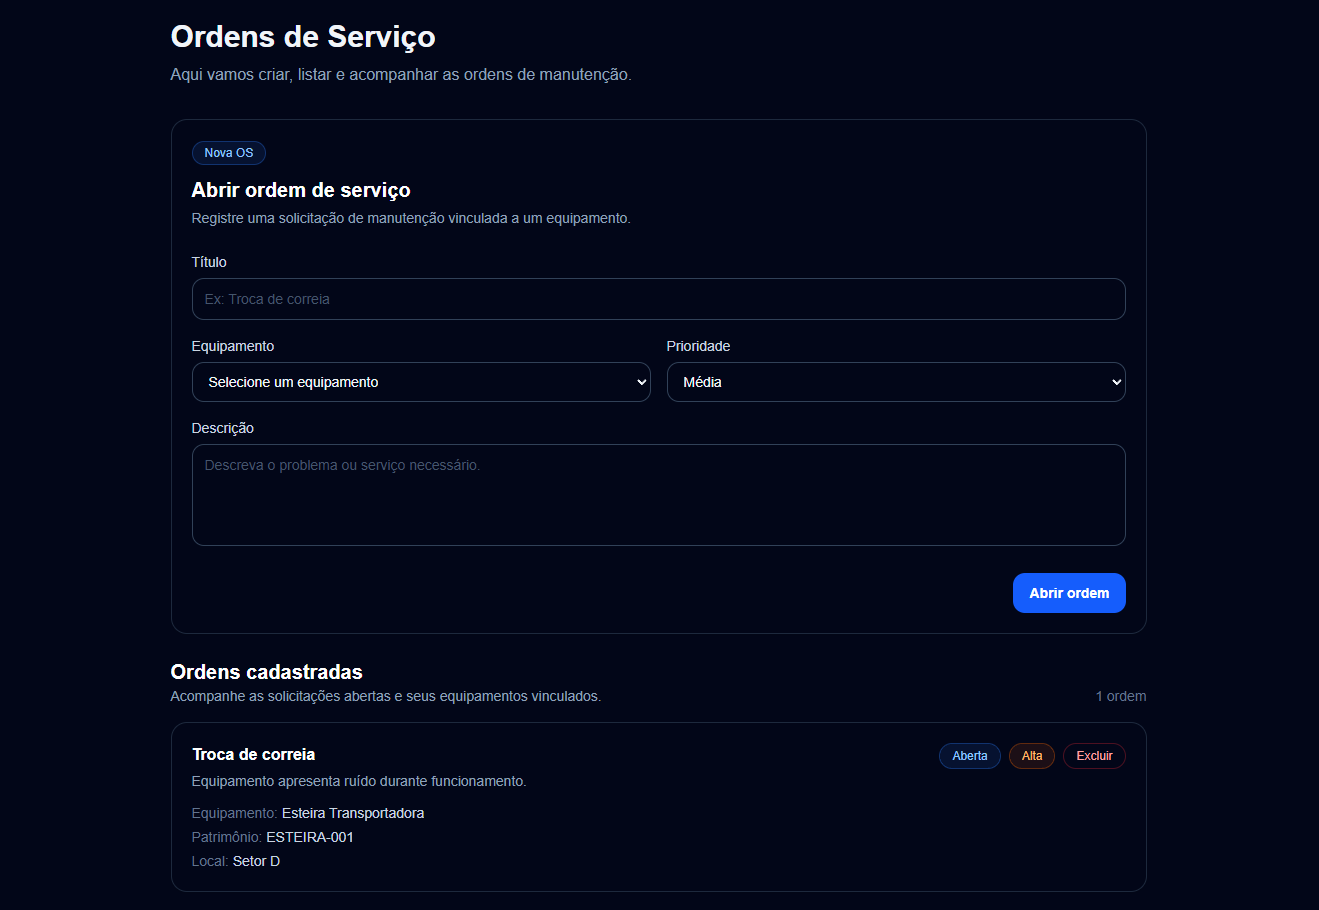
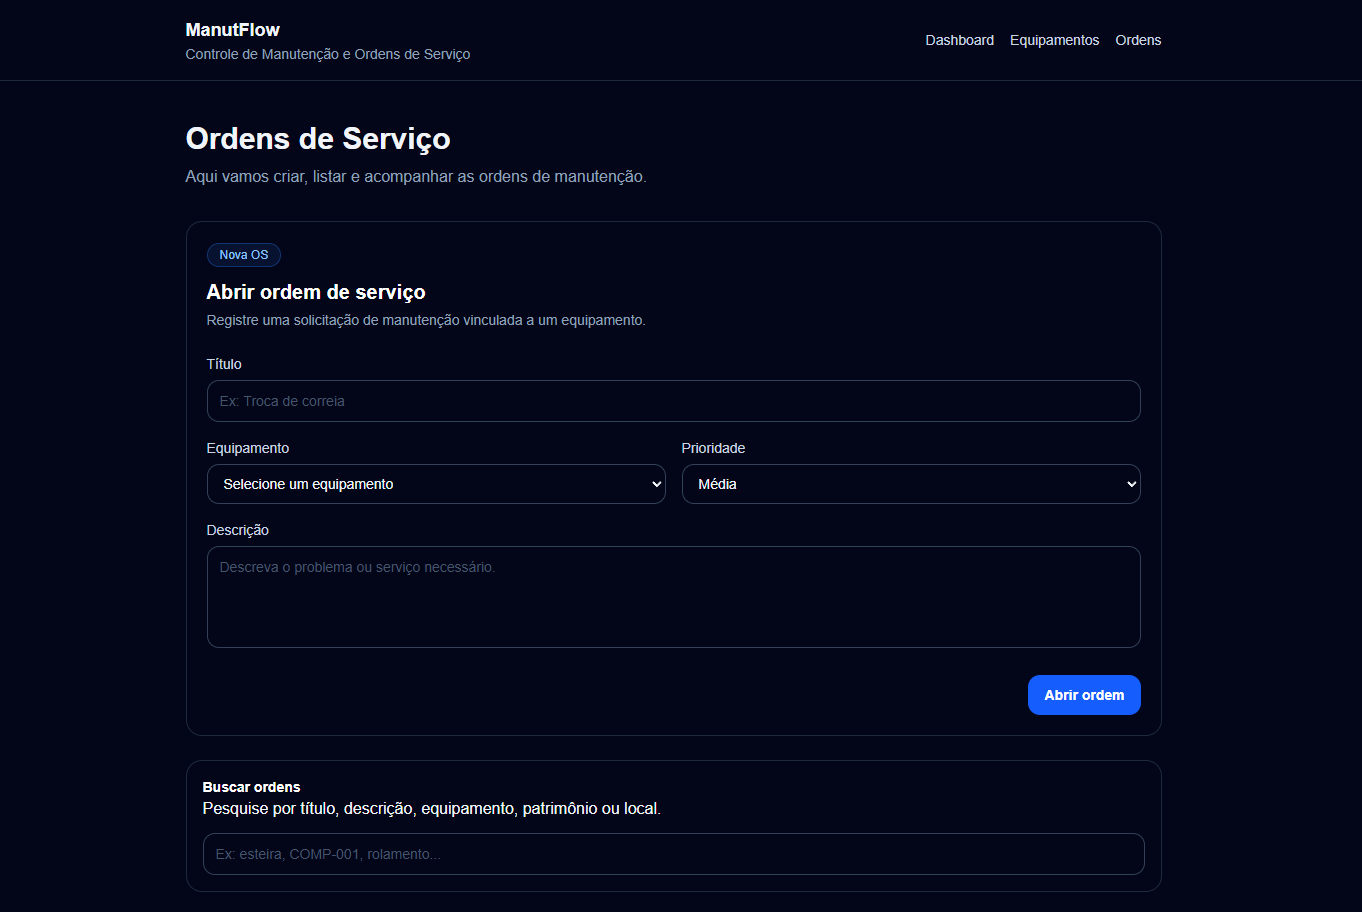
docs: atualiza README com progresso recente

diff --git a/README.md b/README.md
@@ -6,6 +6,12 @@ O projeto está sendo construído do zero como parte de um desafio prático de a
 
 ## Preview
 
+### Dashboard
+
+<p align="center">
+  <img src="./docs/preview-dashboard.png" alt="Preview do dashboard do ManutFlow" width="900" />
+</p>
+
 ### Equipamentos
 
 <p align="center">
@@ -14,8 +20,14 @@ O projeto está sendo construído do zero como parte de um desafio prático de a
 
 ### Ordens de Serviço
 
+### Ordens de Serviço
+
 <p align="center">
-  <img src="./docs/preview-ordens.png" alt="Preview da tela de ordens de serviço do ManutFlow" width="900" />
+  <img src="./docs/preview-ordens.png" alt="Preview da tela de ordens de serviço do ManutFlow com formulário, busca e filtros" width="900" />
+</p>
+
+<p align="center">
+  <img src="./docs/preview-ordens2.png" alt="Preview da listagem de ordens de serviço do ManutFlow com status, prioridades e equipamentos vinculados" width="900" />
 </p>
 
 ## Objetivo do projeto
@@ -46,6 +58,17 @@ A ideia do projeto é aprender desenvolvimento full stack construindo uma aplica
 * Criação do cabeçalho da aplicação
 * Criação de navegação entre páginas
 * Criação das rotas de Dashboard, Equipamentos e Ordens
+* Organização de funcionalidades por domínio em `features`
+
+### Dashboard
+
+* Criação de dashboard inicial
+* Criação da rota `/api/dashboard-summary`
+* Busca de indicadores reais no Supabase
+* Exibição do total de equipamentos cadastrados
+* Exibição do total de ordens de serviço
+* Exibição de ordens abertas, em andamento e fechadas
+* Substituição de valores fixos por dados reais da API
 
 ### API
 
@@ -57,10 +80,11 @@ A ideia do projeto é aprender desenvolvimento full stack construindo uma aplica
 * Implementação do método `GET` para listar ordens de serviço
 * Implementação do método `POST` para cadastrar ordens de serviço
 * Criação da rota `/api/service-orders/[id]`
+* Implementação do método `PATCH` para atualizar o status de uma ordem de serviço
 * Implementação do método `DELETE` para excluir ordens de serviço
 * Validação dos dados no servidor antes de salvar no banco
 * Tratamento de erro para código de patrimônio duplicado
-* Tratamento de erro para campos obrigatórios e prioridades inválidas
+* Tratamento de erro para campos obrigatórios, prioridades inválidas e status inválidos
 
 ### Equipamentos
 
@@ -70,6 +94,9 @@ A ideia do projeto é aprender desenvolvimento full stack construindo uma aplica
 * Exibição de mensagens de sucesso e erro
 * Atualização automática da lista após cadastrar um equipamento
 * Tradução dos status técnicos do banco para textos amigáveis na interface
+* Exibição de equipamentos em cards responsivos
+* Exibição de status dos equipamentos com badges visuais
+* Padronização visual da tela de equipamentos com tema escuro
 
 ### Ordens de Serviço
 
@@ -81,9 +108,13 @@ A ideia do projeto é aprender desenvolvimento full stack construindo uma aplica
 * Listagem de ordens cadastradas
 * Exibição do equipamento vinculado à ordem
 * Exibição de status e prioridade com textos amigáveis
+* Alteração de status da ordem de serviço pela interface
 * Exclusão de ordens de serviço
-* Atualização automática da lista após cadastrar ou excluir uma ordem
-* Estilização da tela de ordens com tema escuro e cards organizados
+* Filtro de ordens por status
+* Busca textual por título, descrição, equipamento, patrimônio e local
+* Melhoria do estado vazio para busca e filtros sem resultado
+* Atualização automática da lista após cadastrar, excluir ou alterar uma ordem
+* Estilização da tela de ordens com tema escuro, cards, filtros e busca
 
 ### Segurança e banco de dados
 
@@ -91,7 +122,7 @@ A ideia do projeto é aprender desenvolvimento full stack construindo uma aplica
 * Uso de PostgreSQL como banco de dados
 * Configuração de Row Level Security no Supabase
 * Criação de policies iniciais para leitura e cadastro de equipamentos
-* Criação de policies iniciais para leitura, cadastro e exclusão de ordens de serviço
+* Criação de policies iniciais para leitura, cadastro, atualização e exclusão de ordens de serviço
 * Uso de relacionamento entre tabelas com chave estrangeira
 
 > As permissões atuais são temporárias para desenvolvimento. Futuramente, elas serão ajustadas com autenticação e controle de acesso por usuário.
@@ -102,6 +133,7 @@ A ideia do projeto é aprender desenvolvimento full stack construindo uma aplica
 src/
 ├─ app/
 │  ├─ api/
+│  │  ├─ dashboard-summary/
 │  │  ├─ equipments/
 │  │  ├─ health/
 │  │  └─ service-orders/
@@ -126,7 +158,7 @@ src/
 
 ### `/`
 
-Página inicial do sistema, funcionando como dashboard inicial.
+Página inicial do sistema, funcionando como dashboard com indicadores reais de equipamentos e ordens de serviço.
 
 ### `/equipamentos`
 
@@ -134,15 +166,41 @@ Página responsável por cadastrar e listar os equipamentos da empresa.
 
 ### `/ordens`
 
-Página responsável por criar, listar e excluir ordens de serviço vinculadas aos equipamentos cadastrados.
+Página responsável por criar, listar, buscar, filtrar, atualizar status e excluir ordens de serviço vinculadas aos equipamentos cadastrados.
+
+## Rotas de API
 
 ### `/api/health`
 
-Rota de API criada para verificar se o back-end da aplicação está respondendo corretamente.
+Rota criada para verificar se o back-end da aplicação está respondendo corretamente.
+
+Método disponível:
+
+```text
+GET /api/health
+```
+
+### `/api/dashboard-summary`
+
+Rota responsável por retornar os indicadores do dashboard.
+
+Método disponível:
+
+```text
+GET /api/dashboard-summary
+```
+
+Retorna informações como:
+
+* total de equipamentos;
+* total de ordens de serviço;
+* ordens abertas;
+* ordens em andamento;
+* ordens fechadas.
 
 ### `/api/equipments`
 
-Rota de API responsável por listar e cadastrar equipamentos.
+Rota responsável por listar e cadastrar equipamentos.
 
 Métodos disponíveis:
 
@@ -153,7 +211,7 @@ POST /api/equipments
 
 ### `/api/service-orders`
 
-Rota de API responsável por listar e cadastrar ordens de serviço.
+Rota responsável por listar e cadastrar ordens de serviço.
 
 Métodos disponíveis:
 
@@ -164,11 +222,12 @@ POST /api/service-orders
 
 ### `/api/service-orders/[id]`
 
-Rota de API responsável por excluir uma ordem de serviço específica.
+Rota responsável por atualizar ou excluir uma ordem de serviço específica.
 
-Método disponível:
+Métodos disponíveis:
 
 ```text
+PATCH  /api/service-orders/[id]
 DELETE /api/service-orders/[id]
 ```
 
@@ -294,6 +353,22 @@ Interface exibe a mensagem correta
 Lista de ordens é atualizada automaticamente
 ```
 
+## Fluxo atual de alteração de status da ordem
+
+```text
+Usuário altera o status da ordem na interface
+        ↓
+Front-end envia uma requisição PATCH para /api/service-orders/[id]
+        ↓
+API valida se o status é permitido
+        ↓
+API atualiza a ordem no Supabase
+        ↓
+Interface recarrega a lista de ordens
+        ↓
+Status atualizado aparece na tela
+```
+
 ## Validações atuais
 
 A API valida os seguintes campos antes de cadastrar um equipamento:
@@ -308,6 +383,11 @@ A API valida os seguintes campos antes de cadastrar uma ordem de serviço:
 * título obrigatório;
 * equipamento obrigatório;
 * prioridade válida.
+
+A API valida os seguintes campos antes de atualizar uma ordem de serviço:
+
+* ID da ordem obrigatório;
+* status válido.
 
 O banco também possui regras importantes:
 
@@ -380,21 +460,29 @@ Atualmente, o sistema já possui:
 * conexão com Supabase;
 * API interna para equipamentos;
 * API interna para ordens de serviço;
+* API interna para resumo do dashboard;
+* dashboard com indicadores reais;
 * listagem de equipamentos;
 * cadastro de equipamentos;
 * listagem de ordens de serviço;
 * cadastro de ordens de serviço;
+* alteração de status de ordens;
 * exclusão de ordens de serviço;
+* busca textual em ordens;
+* filtro de ordens por status;
 * relacionamento entre ordens e equipamentos;
 * validação no servidor;
 * tratamento de erros básicos;
-* Row Level Security configurado de forma inicial.
+* Row Level Security configurado de forma inicial;
+* interface padronizada com tema escuro.
 
 ## Próximos passos
 
-* Implementar alteração de status da ordem de serviço
-* Criar histórico de alterações
-* Melhorar o dashboard inicial com indicadores reais
+* Refatorar a tela de equipamentos para centralizar o carregamento de dados no componente de página
+* Adicionar busca de equipamentos por texto
+* Criar página de detalhes da ordem de serviço
+* Criar histórico de alterações da ordem
+* Melhorar o dashboard com indicadores adicionais
 * Implementar autenticação
 * Melhorar regras de permissão no Supabase
 * Criar testes automatizados
@@ -411,7 +499,7 @@ Até o momento, o projeto já passou por conceitos como:
 * Client Components;
 * Server/API Routes;
 * consumo de API com `fetch`;
-* métodos HTTP `GET`, `POST` e `DELETE`;
+* métodos HTTP `GET`, `POST`, `PATCH` e `DELETE`;
 * validação no servidor;
 * integração com Supabase;
 * uso de variáveis de ambiente;
@@ -421,5 +509,9 @@ Até o momento, o projeto já passou por conceitos como:
 * Row Level Security;
 * policies no Supabase;
 * tratamento de erro;
+* estado de carregamento;
+* estado vazio;
+* busca e filtro no front-end;
 * atualização automática da interface após ações do usuário;
+* fluxo de branch, commit, Pull Request, merge e limpeza de branches;
 * versionamento com Git e GitHub.
